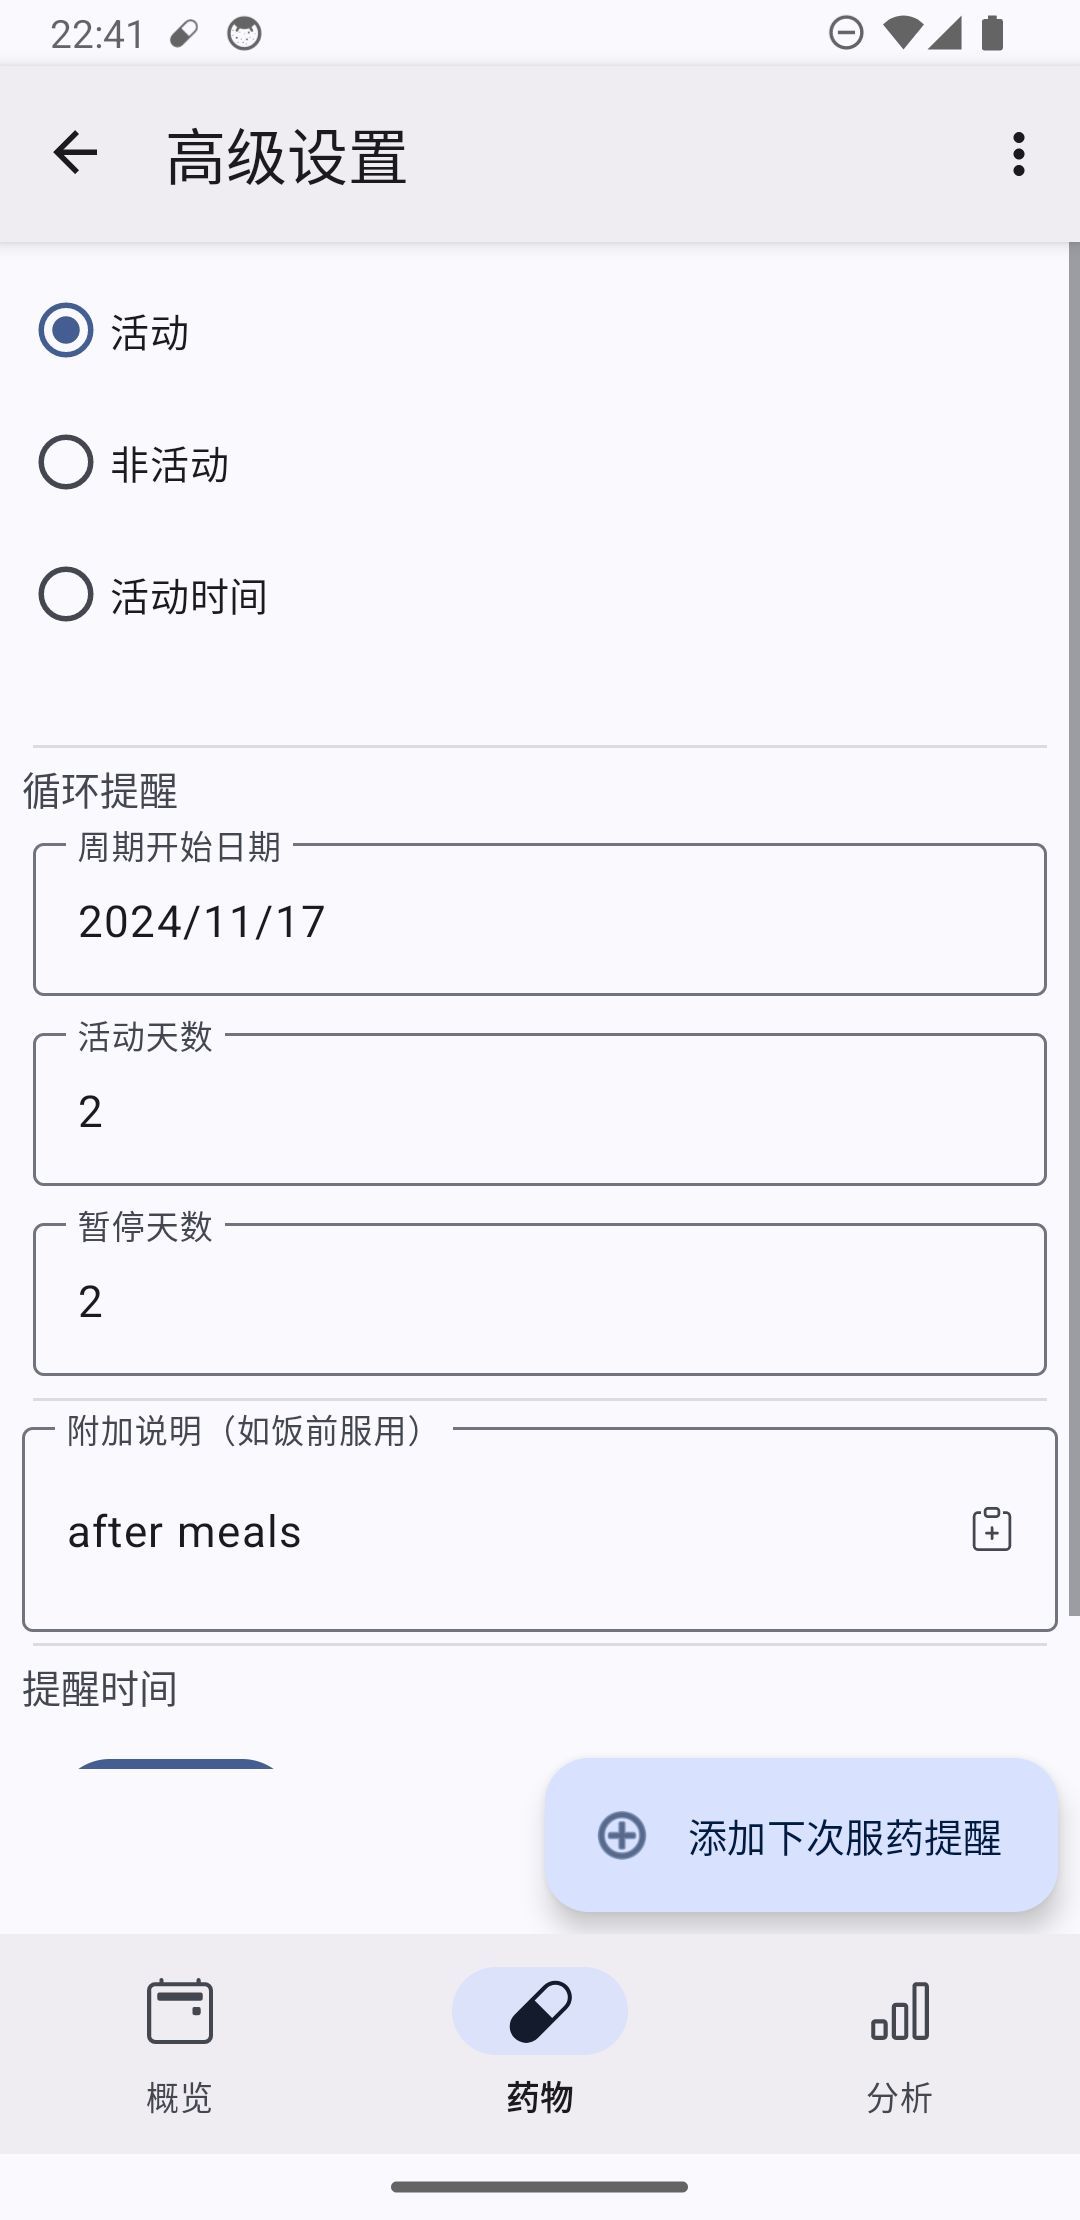
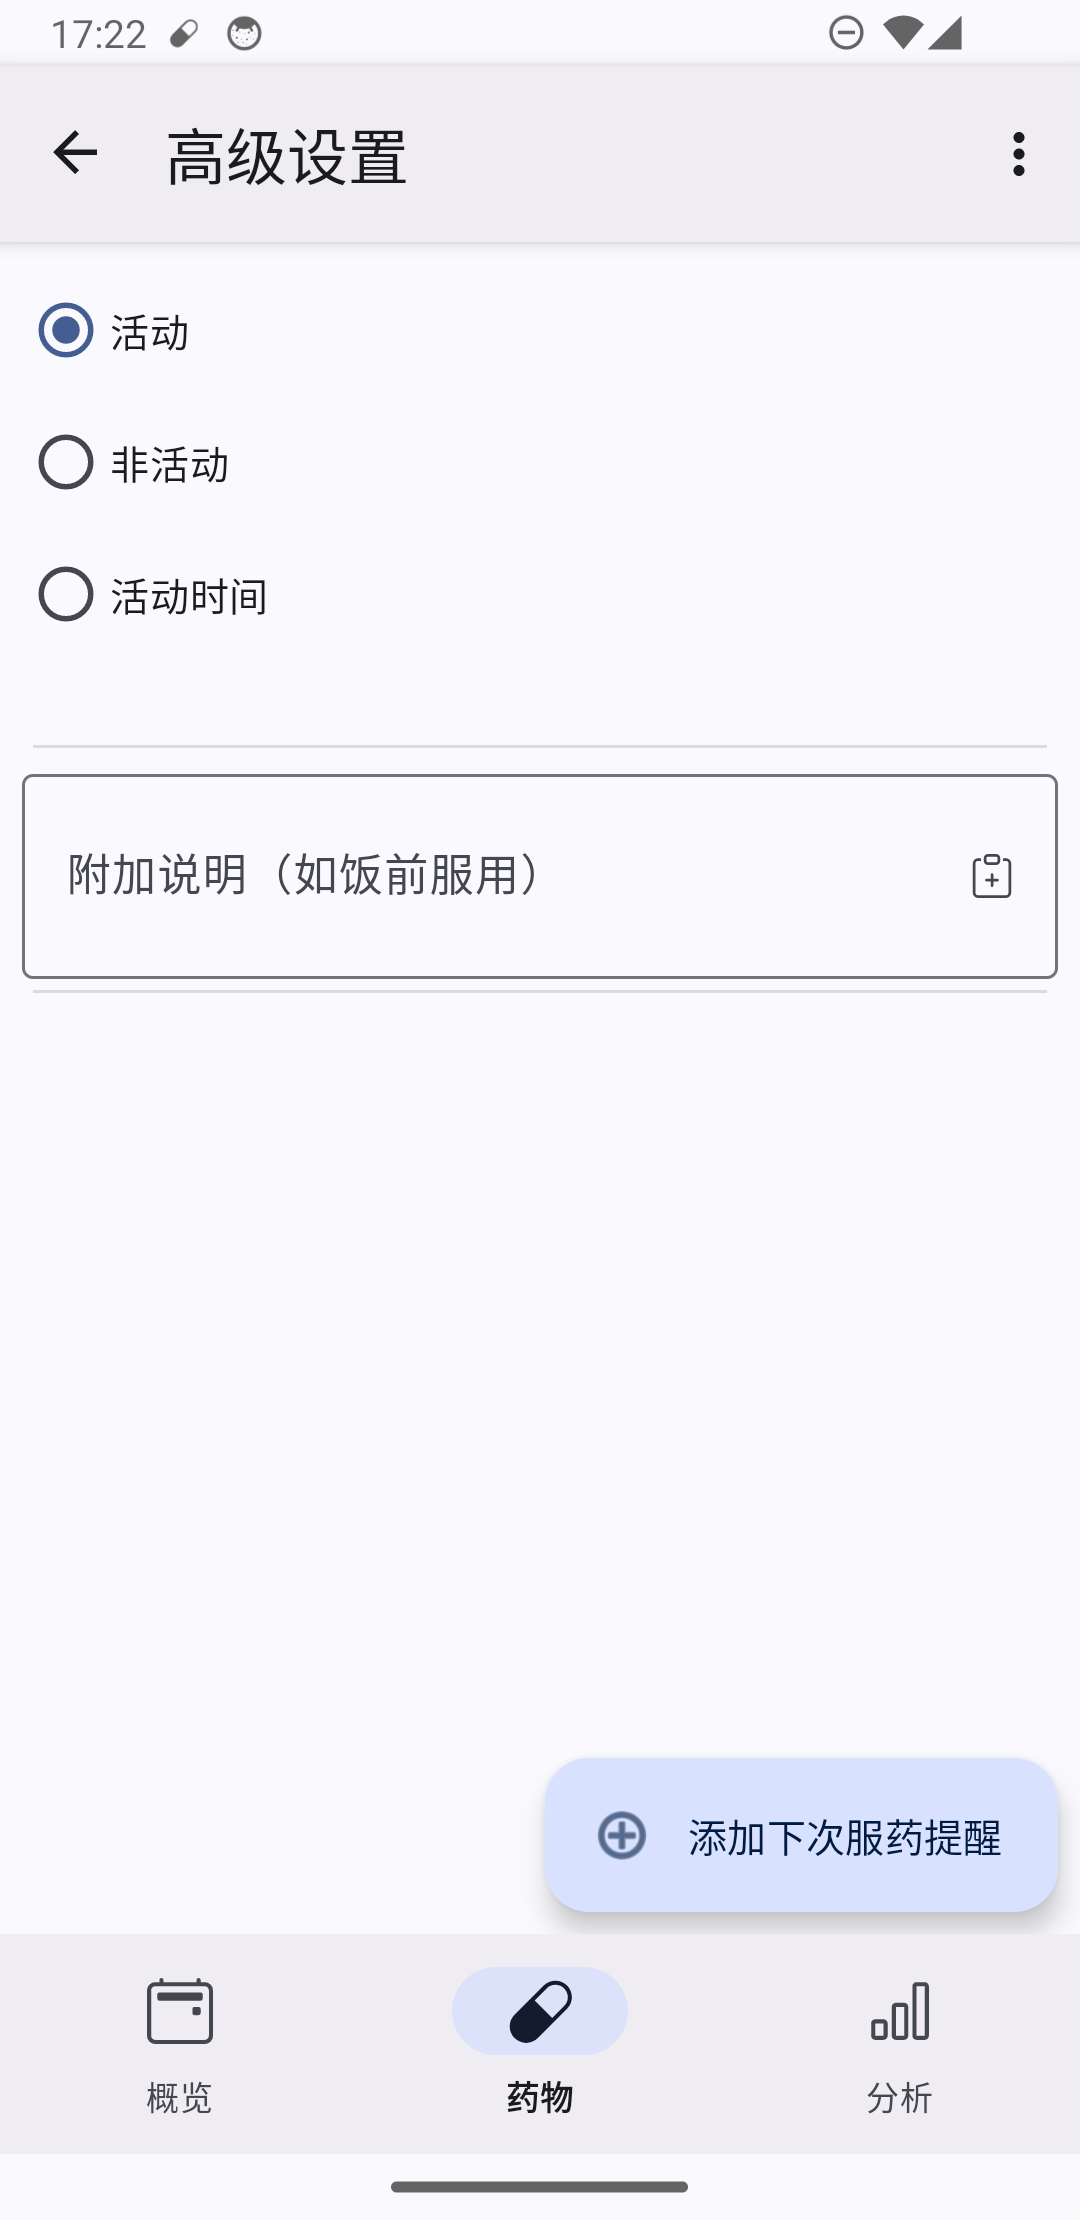
Fix building APK (#393)
* Fix building APK

* Test stability fix

* Fix Chinese screenshots

* Fix potential null pointer

diff --git a/app/src/main/java/com/futsch1/medtimer/medicine/AdvancedReminderSettingsFragment.java b/app/src/main/java/com/futsch1/medtimer/medicine/AdvancedReminderSettingsFragment.java
@@ -68,8 +68,10 @@ public class AdvancedReminderSettingsFragment extends Fragment {
         postponeEnterTransition();
         medicineViewModel.getLiveReminder(args.getReminderId()).observe(getViewLifecycleOwner(), reminderArg -> {
             this.reminder = reminderArg;
-            setupView();
-            startPostponedEnterTransition();
+            if (reminder != null) {
+                setupView();
+                startPostponedEnterTransition();
+            }
         });
 
         return advancedReminderView;

diff --git a/app/src/androidTest/java/com/futsch1/medtimer/CalendarTest.java b/app/src/androidTest/java/com/futsch1/medtimer/CalendarTest.java
@@ -55,8 +55,8 @@ public class CalendarTest extends BaseHelper {
             }
             takenReminders++;
         }
-
         onViewWithTimeout(new RecyclerViewMatcher(R.id.latestReminders).sizeMatcher(0)).check(matches(isDisplayed()));
+        onView(isRoot()).perform(AndroidTestHelper.waitFor(1000));
 
         AndroidTestHelper.navigateTo(AndroidTestHelper.MainMenu.MEDICINES);
 
